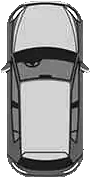
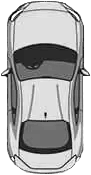
add modern view

diff --git a/lib/widgets/asphalt_widget.dart b/lib/widgets/asphalt_widget.dart
@@ -20,7 +20,7 @@ class AsphaltWidget extends StatelessWidget {
         children: [
           Row(
             children: [
-              generateSide(),
+              isModern ? generateModernSide() : generateSide(),
               const SizedBox(
                 width: 10,
               ),
@@ -31,54 +31,52 @@ class AsphaltWidget extends StatelessWidget {
                   child: isLap
                       ? const SizedBox()
                       : GridView.count(
-                    physics: const NeverScrollableScrollPhysics(),
-                    shrinkWrap: true,
-                    scrollDirection: Axis.vertical,
-                    crossAxisCount: 3,
-                    crossAxisSpacing: 15,
-                    //10
-                    mainAxisSpacing: 15,
-                    //10
-                    childAspectRatio: 0.75,
-                    children: generateCars(),
-                  ),
+                          physics: const NeverScrollableScrollPhysics(),
+                          shrinkWrap: true,
+                          scrollDirection: Axis.vertical,
+                          crossAxisCount: 3,
+                          crossAxisSpacing: 15, //10
+                          mainAxisSpacing: 15, //10
+                          childAspectRatio: 0.75,
+                          children: generateCars(),
+                        ),
                 ),
               ),
               const SizedBox(
                 width: 10,
               ),
-              generateSide()
+              isModern ? generateModernSide() : generateSide(),
             ],
           ),
           isLap
               ? Positioned(
-            left: -5,
-            right: -5,
-            child: Container(
-              height: 55,
-              color: const Color(0xffEDEDED),
-              child: Row(
-                mainAxisAlignment: MainAxisAlignment.spaceBetween,
-                mainAxisSize: MainAxisSize.max,
-                children: [
-                  const Icon(
-                    Icons.flag,
-                    size: 40,
-                    color: Colors.blueGrey,
+                  left: -5,
+                  right: -5,
+                  child: Container(
+                    height: 55,
+                    color: const Color(0xffEDEDED),
+                    child: Row(
+                      mainAxisAlignment: MainAxisAlignment.spaceBetween,
+                      mainAxisSize: MainAxisSize.max,
+                      children: [
+                        const Icon(
+                          Icons.flag,
+                          size: 40,
+                          color: Colors.blueGrey,
+                        ),
+                        const Text(
+                          'Nostalgia Nitro',
+                          style: TextStyle(color: Colors.black),
+                        ),
+                        Transform(
+                          alignment: Alignment.center,
+                          transform: Matrix4.rotationY(math.pi),
+                          child: const Icon(Icons.flag, size: 40, color: Colors.blueGrey),
+                        ),
+                      ],
+                    ),
                   ),
-                  const Text(
-                    'Nostalgia Nitro',
-                    style: TextStyle(color: Colors.black),
-                  ),
-                  Transform(
-                    alignment: Alignment.center,
-                    transform: Matrix4.rotationY(math.pi),
-                    child: const Icon(Icons.flag, size: 40, color: Colors.blueGrey),
-                  ),
-                ],
-              ),
-            ),
-          )
+                )
               : const SizedBox()
         ],
       ),
@@ -100,27 +98,20 @@ class AsphaltWidget extends StatelessWidget {
     if ((npcCarsIndex.contains(0) && npcCarsIndex.contains(4) && npcCarsIndex.contains(8)) ||
         (npcCarsIndex.contains(2) && npcCarsIndex.contains(4) && npcCarsIndex.contains(6))) {
       npcCarsIndex.remove(4);
-    }
-    else if ((npcCarsIndex.contains(3) && npcCarsIndex.contains(7) && npcCarsIndex.contains(11)) ||
+    } else if ((npcCarsIndex.contains(3) && npcCarsIndex.contains(7) && npcCarsIndex.contains(11)) ||
         (npcCarsIndex.contains(5) && npcCarsIndex.contains(7) && npcCarsIndex.contains(9))) {
       npcCarsIndex.remove(7);
-    }
-    else if ((npcCarsIndex.contains(1) && npcCarsIndex.contains(3) && npcCarsIndex.contains(5))) {
+    } else if ((npcCarsIndex.contains(1) && npcCarsIndex.contains(3) && npcCarsIndex.contains(5))) {
       npcCarsIndex.remove(1);
-    }
-    else if ((npcCarsIndex.contains(4) && npcCarsIndex.contains(6) && npcCarsIndex.contains(8))) {
+    } else if ((npcCarsIndex.contains(4) && npcCarsIndex.contains(6) && npcCarsIndex.contains(8))) {
       npcCarsIndex.remove(4);
-    }
-    else if ((npcCarsIndex.contains(7) && npcCarsIndex.contains(9) && npcCarsIndex.contains(11))) {
+    } else if ((npcCarsIndex.contains(7) && npcCarsIndex.contains(9) && npcCarsIndex.contains(11))) {
       npcCarsIndex.remove(7);
-    }
-    else if ((npcCarsIndex.contains(0) && npcCarsIndex.contains(2) && npcCarsIndex.contains(4))) {
-    npcCarsIndex.remove(4);
-    }
-    else if ((npcCarsIndex.contains(3) && npcCarsIndex.contains(5) && npcCarsIndex.contains(7))) {
+    } else if ((npcCarsIndex.contains(0) && npcCarsIndex.contains(2) && npcCarsIndex.contains(4))) {
+      npcCarsIndex.remove(4);
+    } else if ((npcCarsIndex.contains(3) && npcCarsIndex.contains(5) && npcCarsIndex.contains(7))) {
       npcCarsIndex.remove(7);
-    }
-    else if ((npcCarsIndex.contains(6) && npcCarsIndex.contains(8) && npcCarsIndex.contains(10))) {
+    } else if ((npcCarsIndex.contains(6) && npcCarsIndex.contains(8) && npcCarsIndex.contains(10))) {
       npcCarsIndex.remove(10);
     }
 
@@ -154,6 +145,21 @@ class AsphaltWidget extends StatelessWidget {
       widLst.add(const TileWidget(width: 10, height: 10));
       widLst.add(const TileWidget(width: 10, height: 10));
       widLst.add(const TileWidget(width: 10, height: 10));
+    }
+    return Column(
+      children: widLst,
+    );
+  }
+
+  Widget generateModernSide() {
+    List<Widget> widLst = [];
+    for (int i = 0; i < 45; i = i + 5) {
+      widLst.add(Container(width: 10, height: 10, color: Colors.white));
+      widLst.add(Container(width: 10, height: 10, color: Colors.white));
+      widLst.add(Container(width: 10, height: 5, color: Colors.white));
+      widLst.add(Container(width: 10, height: 5, color: Colors.amberAccent));
+      widLst.add(Container(width: 10, height: 10, color: Colors.amberAccent));
+      widLst.add(Container(width: 10, height: 10, color: Colors.amberAccent));
     }
     return Column(
       children: widLst,

diff --git a/lib/pages/home_page.dart b/lib/pages/home_page.dart
@@ -1,4 +1,5 @@
 import 'package:flutter/material.dart';
+import 'package:font_awesome_flutter/font_awesome_flutter.dart';
 import 'package:get/get.dart';
 import 'package:nostalgia_nitro/pages/race_page.dart';
 import 'package:nostalgia_nitro/widgets/car_widget.dart';
@@ -16,7 +17,7 @@ class HomePage extends StatefulWidget {
 class _HomePageState extends State<HomePage> with TickerProviderStateMixin {
   late AnimationController transUpController;
   late Animation<Offset> transUpOffset;
-  //bool isModernCar = false;
+  Color trailColor = Colors.amberAccent;
 
   @override
   void initState() {
@@ -62,7 +63,7 @@ class _HomePageState extends State<HomePage> with TickerProviderStateMixin {
             Container(
               padding: const EdgeInsets.all(16),
               decoration: BoxDecoration(
-                  color: Colors.deepPurple.withOpacity(0.05),
+                  //color: Colors.deepPurple.withOpacity(0.05),
                   border: Border.all(color: Colors.grey, width: 0.5),
                   borderRadius: const BorderRadius.only(topLeft: Radius.circular(16), topRight: Radius.circular(16))),
               child: Column(
@@ -73,7 +74,7 @@ class _HomePageState extends State<HomePage> with TickerProviderStateMixin {
                   ),
                   MenuItem(
                       title: 'Start',
-                      subtitle:'Enjoy Sarting game',
+                      subtitle:'Enjoy playing the game',
                       onClick: () {
                         transUpController.forward();
                       },
@@ -81,7 +82,7 @@ class _HomePageState extends State<HomePage> with TickerProviderStateMixin {
                           onTap: () {
                             print('----infoer---');
                           },
-                          child: const Icon(Icons.info_outline,color: Colors.amber,))),
+                          child: Icon(Icons.info_outline,color: trailColor,))),
                   const SizedBox(
                     height: 18,
                   ),
@@ -95,31 +96,21 @@ class _HomePageState extends State<HomePage> with TickerProviderStateMixin {
                       },
                       trailing: Icon(
                         isModern ? Icons.check_circle : Icons.circle_outlined,
-                        color: isModern ? Colors.amber : Colors.amber,
+                        color: trailColor,
                       )),
                   const SizedBox(
                     height: 18,
                   ),
                   MenuItem(
                       title: 'Github Star',
-                      subtitle: 'Support Me by GitHub Star',
+                      subtitle: 'Support me by GitHub Star',
                       onClick: () {
                         js.context.callMethod('open', ['https://github.com/m-r-davari/nostalgia_nitro']);
                       },
-                      trailing: const Icon(
+                      trailing: Icon(
                         Icons.star,
-                        color: Colors.amberAccent,
+                        color: trailColor,
                       )),
-                  const SizedBox(
-                    height: 18,
-                  ),
-                  MenuItem(
-                      title: 'Other Projects',
-                      subtitle: 'Visit my other open source projects',
-                      onClick: () {
-                        js.context.callMethod('open', ['https://github.com/m-r-davari']);
-                      },
-                      trailing: const Icon(Icons.open_in_new_outlined,color: Colors.amber,)),
                   const SizedBox(
                     height: 18,
                   ),
@@ -136,32 +127,32 @@ class _HomePageState extends State<HomePage> with TickerProviderStateMixin {
                     ),
                   ),
                   const SizedBox(
-                    height: 18,
+                    height: 16,
                   ),
                   Row(
                     mainAxisAlignment: MainAxisAlignment.center,
                     children: [
-                      Container(
-                        width: 40,
-                        height: 40,
-                        color: Colors.blue,
-                      ),
+                      InkWell(onTap: (){
+                        js.context.callMethod('open', ['https://www.linkedin.com/in/m-r-davari92/']);
+                      },child: Image.asset('assets/linkedin.png',width: 23,height: 22,)),
                       const SizedBox(
                         width: 16,
                       ),
-                      Container(
-                        width: 40,
-                        height: 40,
-                        color: Colors.blue,
-                      ),
+                      InkWell(onTap: (){
+                        js.context.callMethod('open', ['mailto:m.r.davari92@gmail.com']);
+                      },child: Image.asset('assets/gmail.png',width: 25,height: 25,)),
                       const SizedBox(
                         width: 16,
                       ),
-                      Container(
-                        width: 40,
-                        height: 40,
-                        color: Colors.blue,
+                      InkWell(onTap: (){
+                        js.context.callMethod('open', ['https://github.com/m-r-davari']);
+                      },child: Image.asset('assets/github.png',width: 25,height: 25,)),
+                      const SizedBox(
+                        width: 16,
                       ),
+                      InkWell(onTap: (){
+                        js.context.callMethod('open', ['https://pub.dev/publishers/mobilesoft98.dev/packages']);
+                      },child: Image.asset('assets/pubdev.png',width: 24,height: 23,)),
                     ],
                   ),
                   const SizedBox(
@@ -184,7 +175,7 @@ class _HomePageState extends State<HomePage> with TickerProviderStateMixin {
         height: 150,
         child: isModern
             ? Image.asset(
-                'assets/car_main.png',
+                'assets/car_main_0.png',
                 fit: BoxFit.fitHeight,
                 width: 100,
                 height: 200,

diff --git a/lib/widgets/car_widget.dart b/lib/widgets/car_widget.dart
@@ -23,7 +23,7 @@ class CarWidget extends StatelessWidget {
             height: carHeight,
             alignment: Alignment.center,
             child: Image.asset(
-              isNpc ? 'assets/car_npc_${Utils.generateRandomNumFromRange(0, 3)}.png' : 'assets/car_main.png',
+              isNpc ? 'assets/car_npc_${Utils.generateRandomNumFromRange(0, 3)}.png' : 'assets/car_main_0.png',
               width: 52.7,
               height: 70.2,
               fit: BoxFit.fitHeight,

diff --git a/lib/widgets/menu_item.dart b/lib/widgets/menu_item.dart
@@ -13,6 +13,7 @@ class MenuItem extends StatelessWidget {
     return ClipRRect(
       borderRadius: const BorderRadius.all(Radius.circular(8)),
       child: Material(
+        color: Colors.deepPurple.withOpacity(0.05),
         child: InkWell(
           onTap: () => onClick(),
           child: Container(
